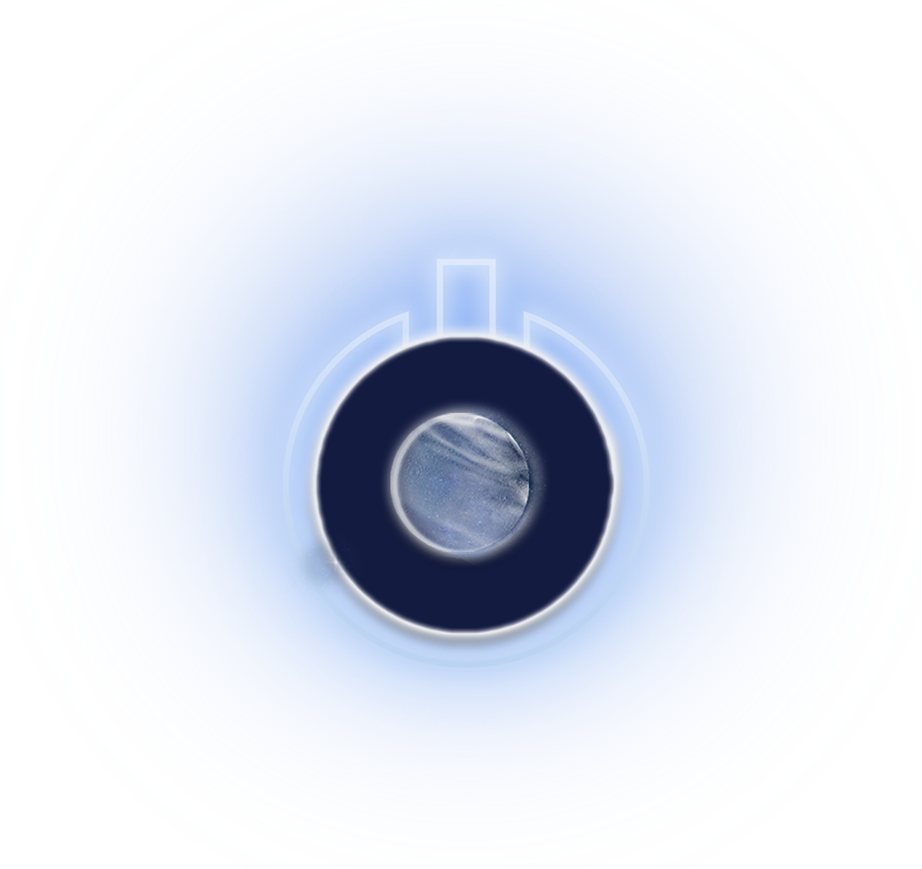
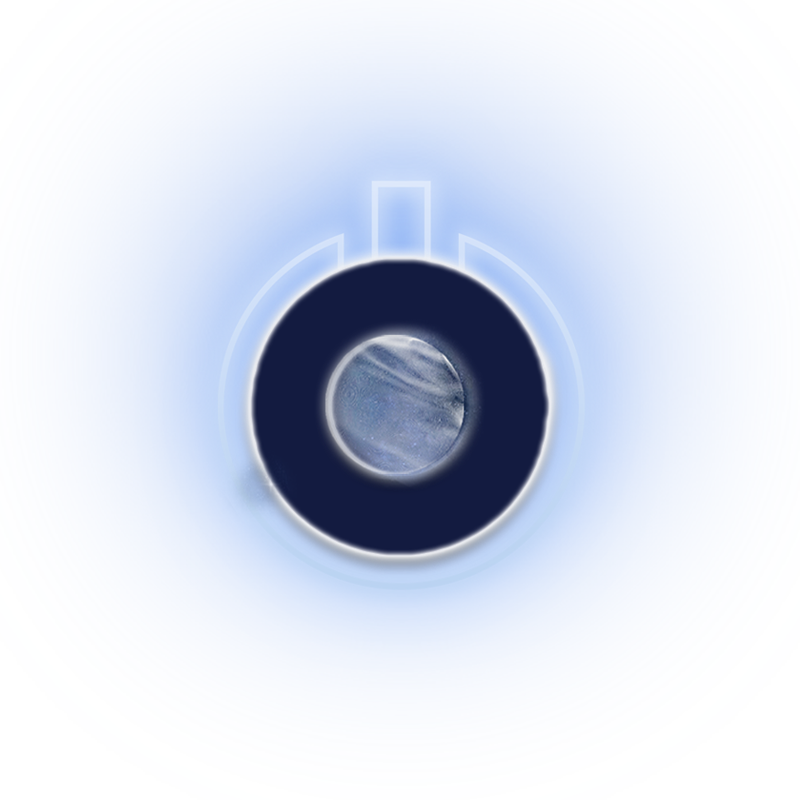
responsive

Changed region(s): [[0.25, 0.1562, 0.7188, 0.7812]]

diff --git a/index.html b/index.html
@@ -50,37 +50,39 @@
    <div id="home"></div>
    <section class="home">
       <div class="overlay"></div>
-      <img class="landing-bg" src="./img/landing-bg.png" alt="">
+      <!-- <img class="landing-bg" src="./img/landing-bg.png" alt=""> -->
 
-      <div class="buttons">
-         <img class="btn-img" src="/img/btn.png" alt="">
-
-         <a class="btn-link" href="https://form.jotform.com/212662811995059?fbclid=IwAR3KLd9SzjpMbn8kbe1ommO8uS3GaQbG1UUNNudtZI_HpgAibbFK1LjxayQ">
-         <button class="btn-primary f-3">Đăng ký ngay</button>
-         </a>
-      </div>
-      
-      <div class="count-down">
-         <!-- <div class="count-down-title">Hạn nộp đơn</div> -->
-         <div class="timer">
-            <div class="slot">
-               <p class="num" id="day">00</p>
-               <p class="tag">DAYS</p>
-            </div>
-            <div class="slot">
-               <p class="num" id="hour">00</p>
-               <p class="tag">HOURS</p>
-            </div>
-            <div class="slot">
-               <p class="num" id="min">00</p>
-               <p class="tag">MINUTES</p>
-            </div>
-            <div class="slot">
-               <p class="num" id="sec">00</p>
-               <p class="tag">SECONDS</p>
+      <div class="home-container">
+         <div class="count-down">         
+            <img class="timeline" src="./img/timeline.png" alt="">
+            <div class="timer">
+               <div class="slot">
+                  <p class="num" id="day">00</p>
+                  <p class="tag">DAYS</p>
+               </div>
+               <div class="slot">
+                  <p class="num" id="hour">00</p>
+                  <p class="tag">HOURS</p>
+               </div>
+               <div class="slot">
+                  <p class="num" id="min">00</p>
+                  <p class="tag">MINUTES</p>
+               </div>
+               <div class="slot">
+                  <p class="num" id="sec">00</p>
+                  <p class="tag">SECONDS</p>
+               </div>
             </div>
          </div>
+   
+         <div class="buttons">
+            <img class="btn-img" src="/img/btn2.png" alt="">
+            <a class="btn-link" href="https://form.jotform.com/212662811995059?fbclid=IwAR3KLd9SzjpMbn8kbe1ommO8uS3GaQbG1UUNNudtZI_HpgAibbFK1LjxayQ">
+            <button class="btn-primary f-3">Đăng ký ngay</button>
+            </a>
+         </div>
       </div>
+
    </section>
 
 

diff --git a/css/mobile.css b/css/mobile.css
@@ -1,32 +1,8 @@
-@media screen and (max-width: 1200px) {
-   .landing-bg {
-      width: 100vw;
-      height: 100vh;
-      object-fit: cover;
-      object-position: 0% 30%;
-   }
-
-   .buttons {
-      width: 20%;
-      right: 2%;
-      top: 18%;
-   }
-
-   .btn-img {
-      width: 400px;
-      object-fit: cover;
-      margin-bottom: -3rem;
-      /* display: none; */
-   }
-    .btn-primary {
-      width: max-content;
-   }   
-   .count-down {
-      bottom: 2%;
-      left: 20%;
+@media screen and (max-width: 1400px) {
+   .timeline, .timer {
+      width: 80%;
    }
 }
-
 
 @media screen and (max-width: 992px) {
    .menu {
@@ -68,33 +44,8 @@
       width: 40%;
    }
 
-   .landing-bg {
-      width: 100vw;
-      height: 100vh;
-      object-fit: cover;
-      object-position: 0% 30%;
-   }
-
-   .buttons {
-      width: 20%;
-      right: 10%;
-      bottom: -35%;
-   }
-
-   .btn-img {
-      width: 300px;
-      object-fit: cover;
-      margin-bottom: -3rem;
-      /* display: none; */
-   }
-
-   .btn-primary {
-      width: max-content;
-   }     
-
-   .count-down {
-      bottom: 18%;
-      left: 20%;
+   .timeline {
+      width: 100%;
    }
 
    .about-item {
@@ -140,37 +91,19 @@
       width: 70%;
    }
 
-   .landing-bg {
-      width: 100vw;
-      height: 100vh;
-      object-fit: cover;
-      object-position: 5% 40%;
+   .count-down {
+      width: 100%;
    }
 
-   .buttons {
-      width: 20%;
-      right: 10%;
-      bottom: -33%;
+   .home-container {
+      flex-direction: column;
    }
 
    .btn-img {
-      width: 300px;
-      object-fit: cover;
-      margin-bottom: -3rem;
-      /* display: none; */
+      display: none;
    }
 
-   .btn-primary {
-      width: max-content;
-   }     
-
-   .count-down {
-      bottom: 15%;
-      left: 14%;
-   }
-
-
-
+   
    .about-item {
       width: 80%;
    }
@@ -224,37 +157,15 @@
    .slot {
       margin: 2rem 0.5rem 1rem;
    }
+
+   .btn-primary {
+      width: max-content;
+   }   
 }
 
 
 @media screen and (max-width: 660px) {
-   
-   .landing-bg {
-      width: 100vw;
-   }
-
-   .buttons {
-      left: 40%;
-      bottom: -40%;
-   }
-
-   .btn-img {
-      display: none;
-   }
-
-   .count-down {
-      bottom: 0%;
-      left: 20%;
-   }
-
-   .num {
-      font-size: 2.5rem;
-   }
-
-   .landing-bg {
-      object-position: 0%;
-   }
-
+  
    .contact-info {
       flex-direction: column;
    }

diff --git a/css/style.css b/css/style.css
@@ -95,9 +95,7 @@
 }
 
 .home {
-   /* background: url('/img/landing-bg.png') no-repeat left/cover padding-box;   */
-   /* background-blend-mode: overlay;   */
-   background-color: #1f5291;
+   background: url('../img/landing-bg.png') fixed bottom center/cover;
    min-height: 100vh;
    text-align: center;
    display: flex;
@@ -107,21 +105,28 @@
    padding: 2rem 0;
 }
 
+
+.home-container {
+   display: flex;
+   z-index: 1;
+   margin-top: 5rem;
+   width: 100%;
+   justify-content: space-between;
+   padding: 0 3rem;
+}
+
 .buttons {
    display: flex;
    flex-direction: column;
-   position: absolute;
-   right: 0%;
    align-items: center;
    justify-content: center;
+   /* width: 50%; */
 }
 
 .btn-img {
-   /* position: absolute; */
-   width: 750px;
+   width: 70%;
    z-index: 1;
-   border-radius: 2%;
-   margin-bottom: -8rem;
+   margin-bottom: -4rem;
 }
 
 .btn-link {
@@ -149,37 +154,18 @@
    background-color: rgba(255, 255, 255, 0.5)
 }
 
-.landing-bg {
-   width: 100%;
-   height: 100%;
-   position: absolute;
-   object-fit: cover;
-   top: 0;
-   left: 0;
-   /* object-fit: cover; */
-   object-position: 0% 0%;
-   /* left: 0; */
-}
-
-
 /* Count-down */
 .count-down {
-   position: absolute;
-   bottom: 5%;
-   left: 10%;
    display: flex;
    flex-direction: column;
    align-items: center;
-   justify-content: center;
+   justify-content: center;   
 }
 
-/* .count-down-title {
-   color:#fff;
-   text-shadow: 2px 2px #000;
-   font-size: 2rem;
-   font-weight: bold;
-   font-family: var(--secondary-font);
-} */
+.timeline {
+   /* width: 80%; */
+   margin-bottom: 2rem;
+}
 
 .timer {
    display: flex;
